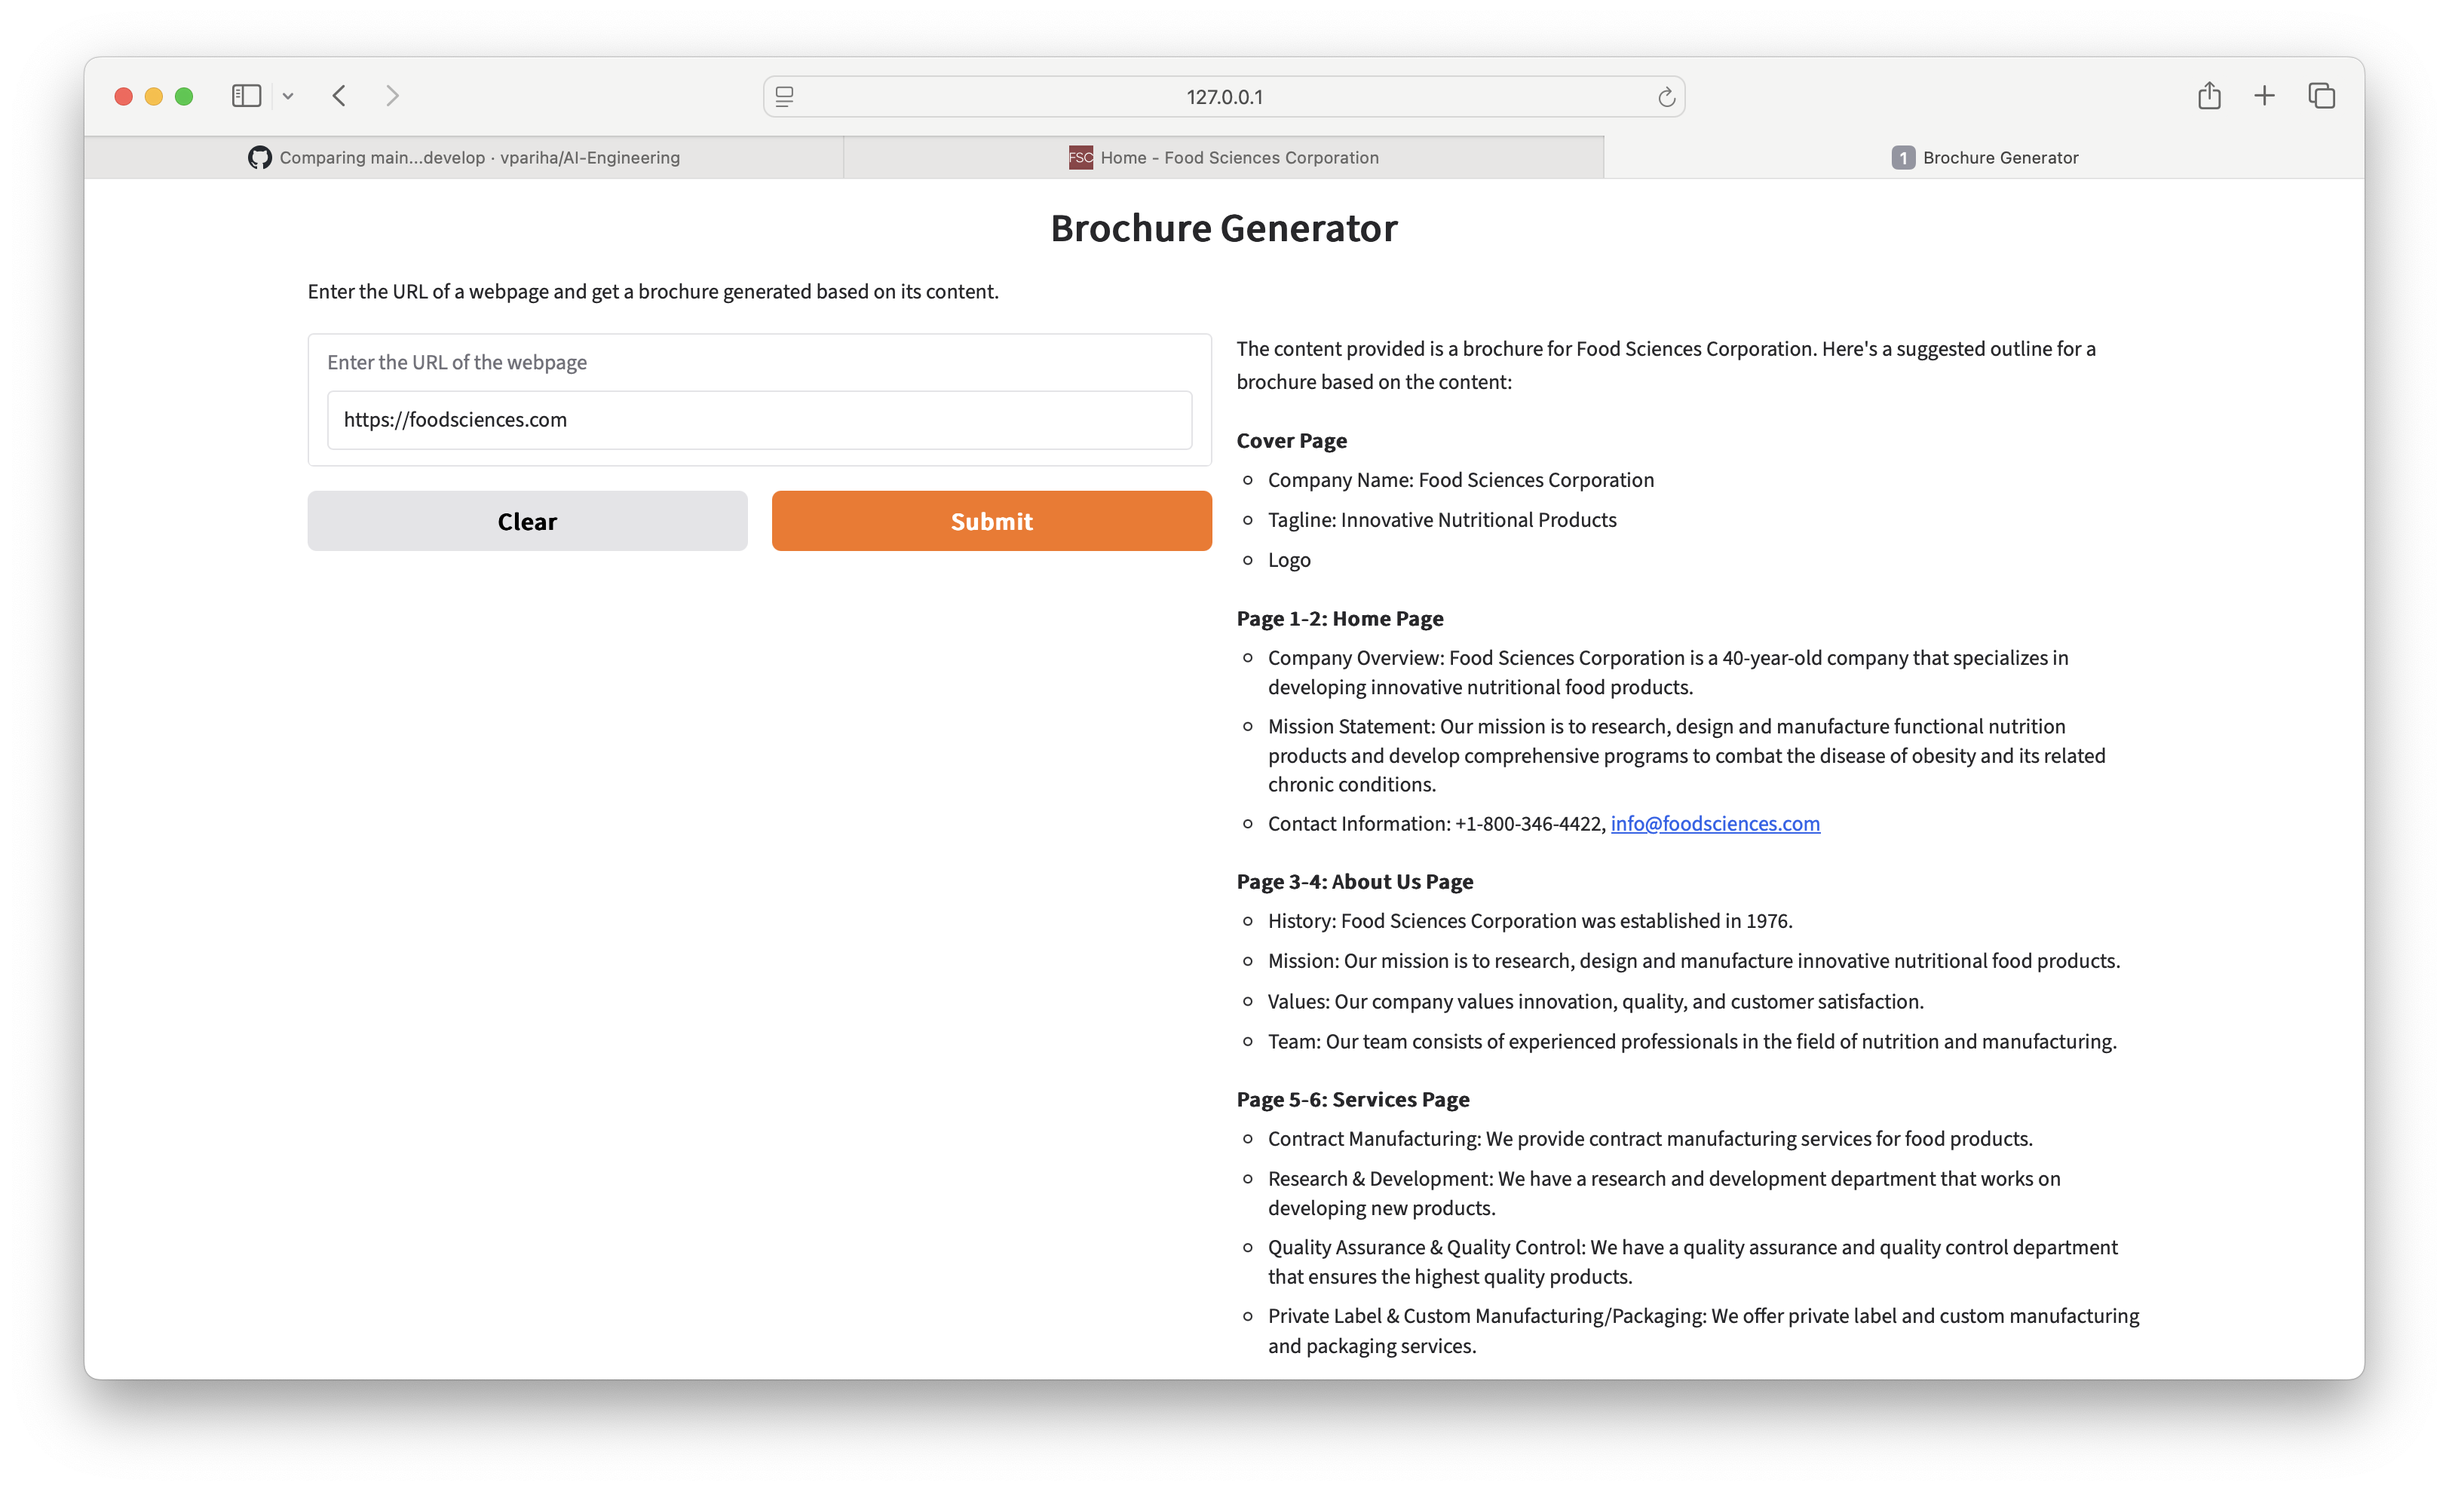
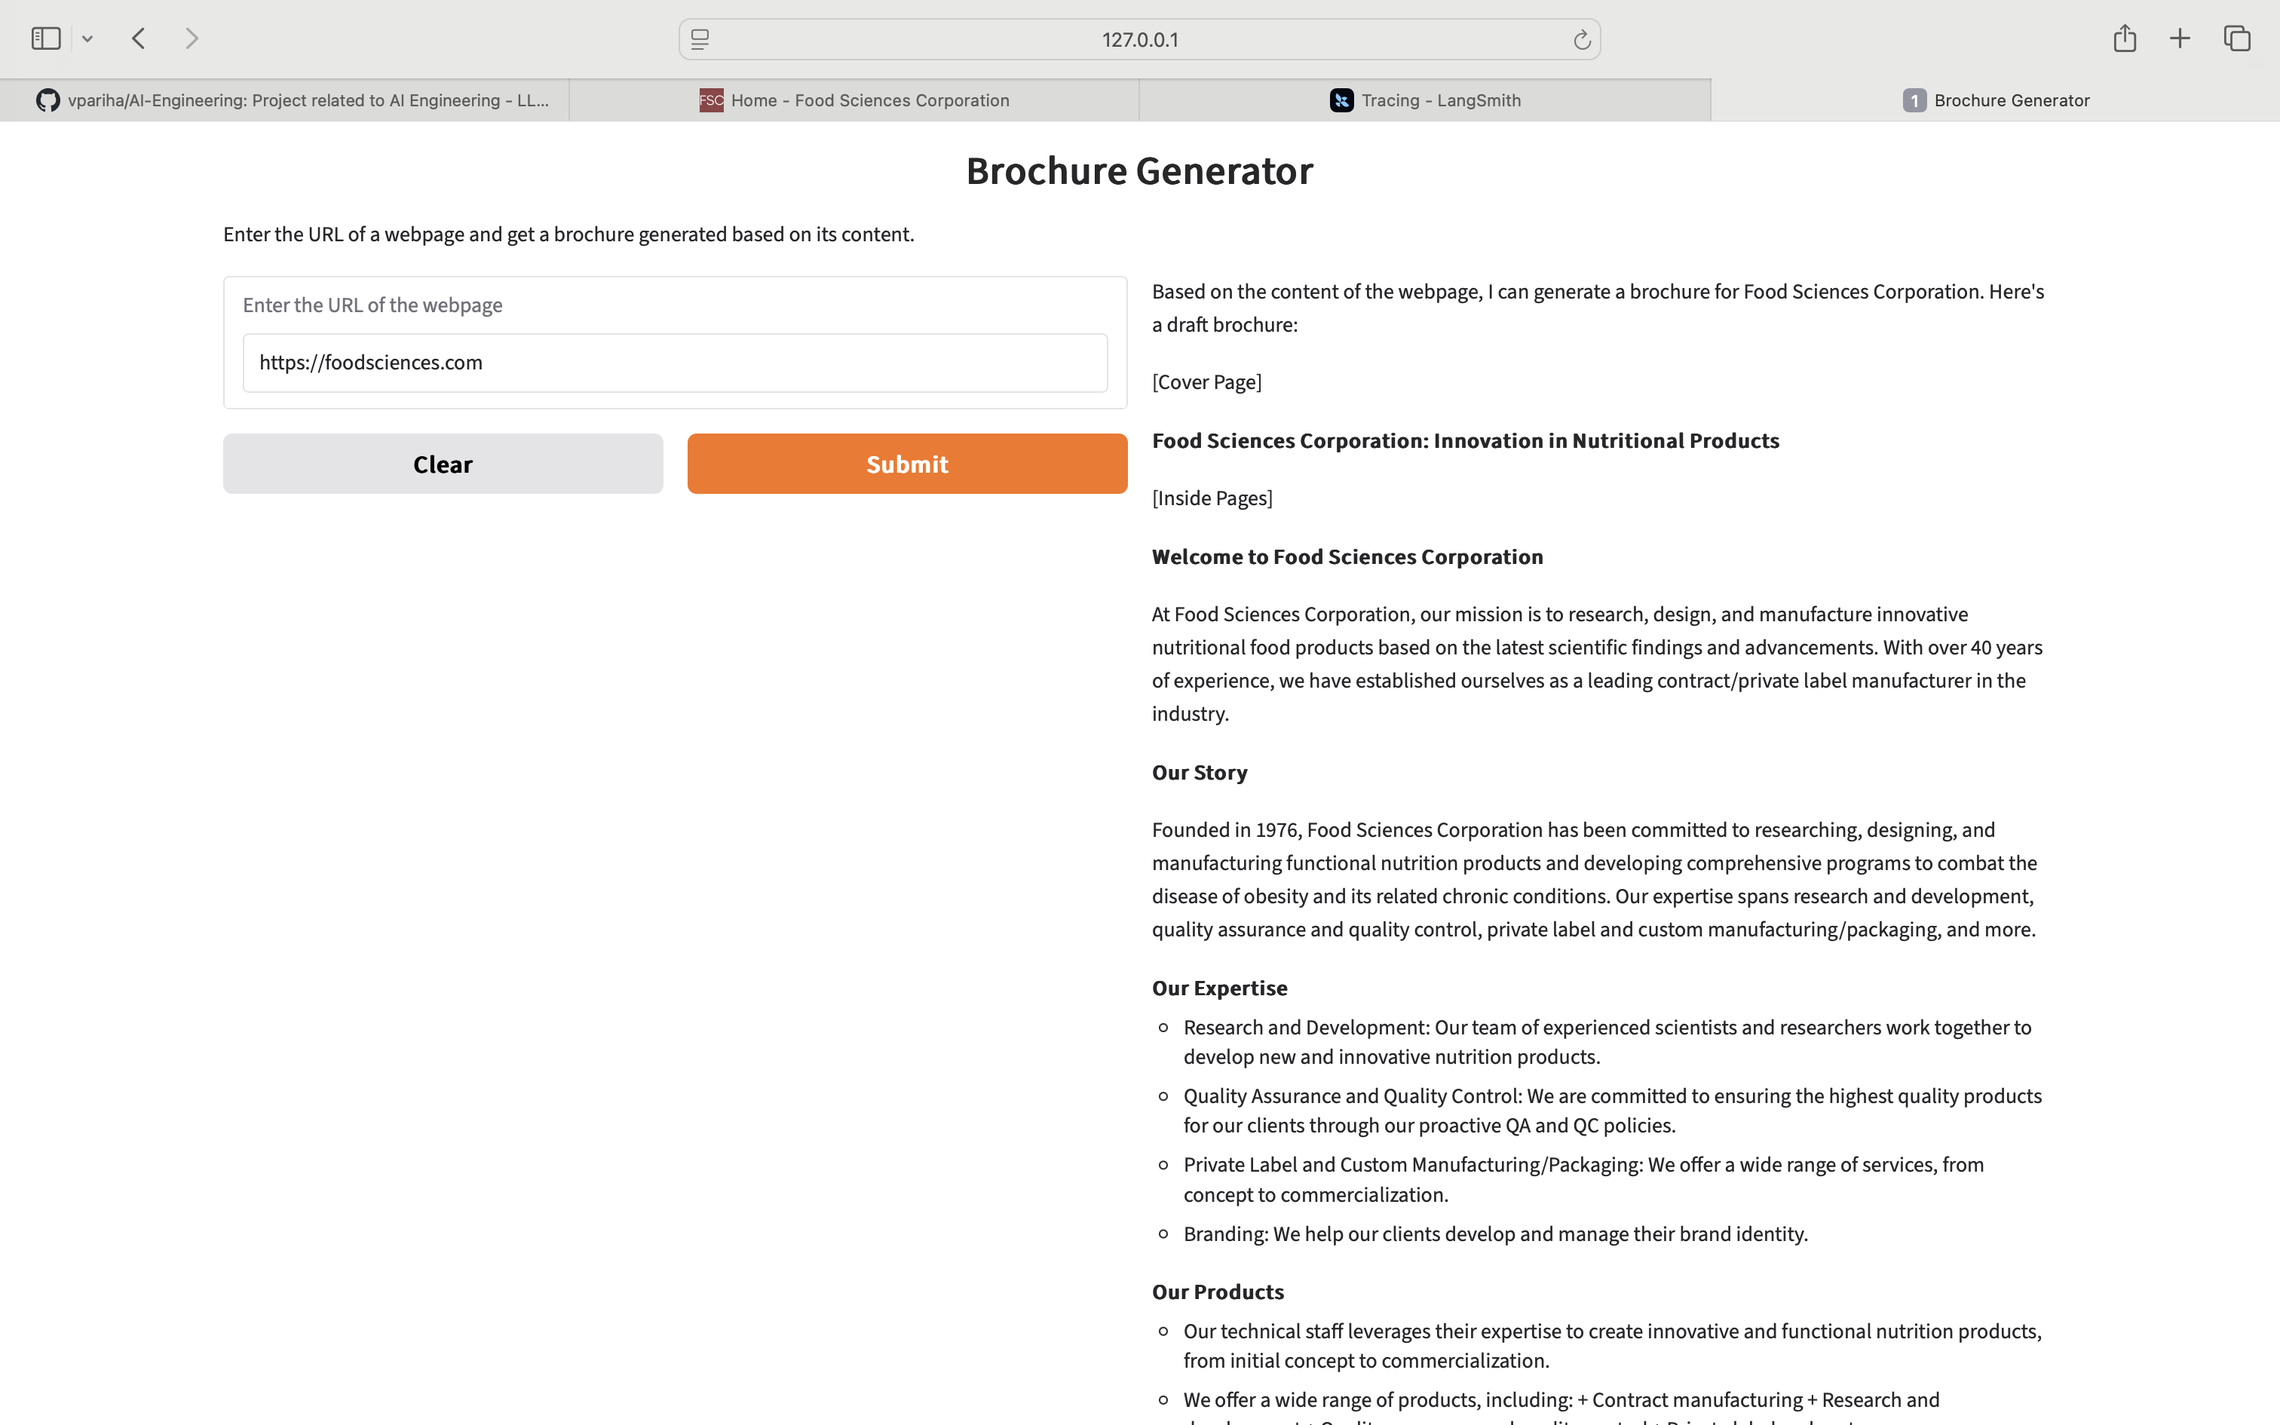
Added Langsmith integration for traceability

Changed region(s): [[0.0, 0.0, 0.9947, 1.0], [0.8393, 0.0624, 0.9325, 0.0937], [0.7771, 0.0937, 0.8393, 0.1249]]

diff --git a/brochure-creator/src/brochure_creator/main.py b/brochure-creator/src/brochure_creator/main.py
@@ -2,9 +2,10 @@ import gradio as gr
 from langchain_community.document_loaders import WebBaseLoader
 
 from brochure_creator.model import get_local_llm_model
+from langsmith import traceable 
 
-
-def load_web_documents(url: str):
+@traceable()
+def load_web_content(url: str):
     loader = WebBaseLoader(url)
     loaded_documents = loader.load()
     content = ""
@@ -18,8 +19,9 @@ prompt = """
     content: {content}
 """
 
+@traceable()
 def generate_brochure(url: str):
-    content = load_web_documents(url)
+    content = load_web_content(url)
     stream = get_local_llm_model().stream(
             prompt.format(content=content)
     )

diff --git a/brochure-creator/README.md b/brochure-creator/README.md
@@ -2,6 +2,10 @@
 
 ![Screenshot](/Screenshot.png)
 
+## Langsmith Tracing
+
+![Screenshot](/Screenshot_Tracing)
+
 A small Python project that turns a web page into a brochure-style summary using a local LLM via Ollama and a Gradio interface.
 
 ## What this project does
